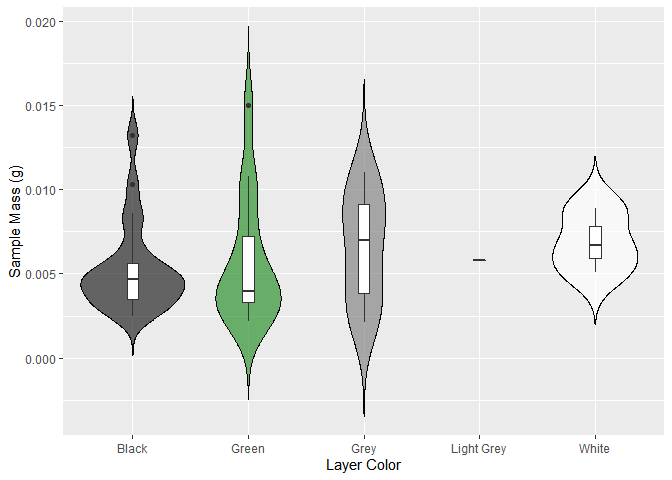
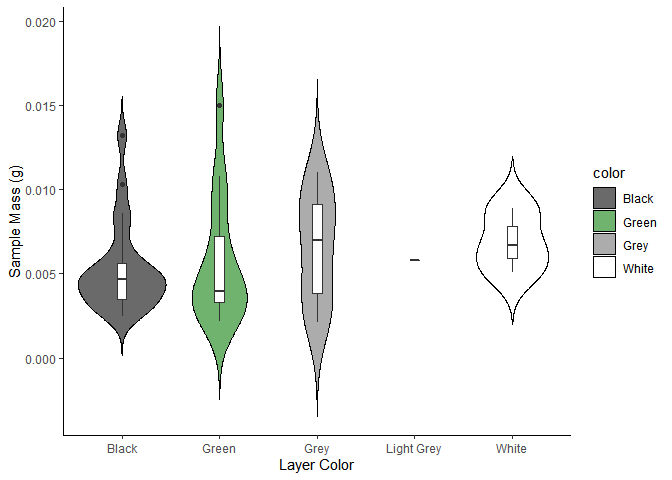
biogeojake - adjusted theme of figure

diff --git a/hmk/hmk_04/hmk_04.md b/hmk/hmk_04/hmk_04.md
@@ -27,7 +27,7 @@ p <- ggplot(my_data, aes(x = color, y = sample_mass, fill = color)) +
 
 #Layer a boxplot onto the violin plot
 p + geom_boxplot(aes(x = color, y = sample_mass), fill = "white", width = 0.1) +
-  theme(legend.position = "none") +
+  theme(legend.position = "none") + theme_classic() + 
   xlab("Layer Color") + ylab("Sample Mass (g)")
 ```
 
